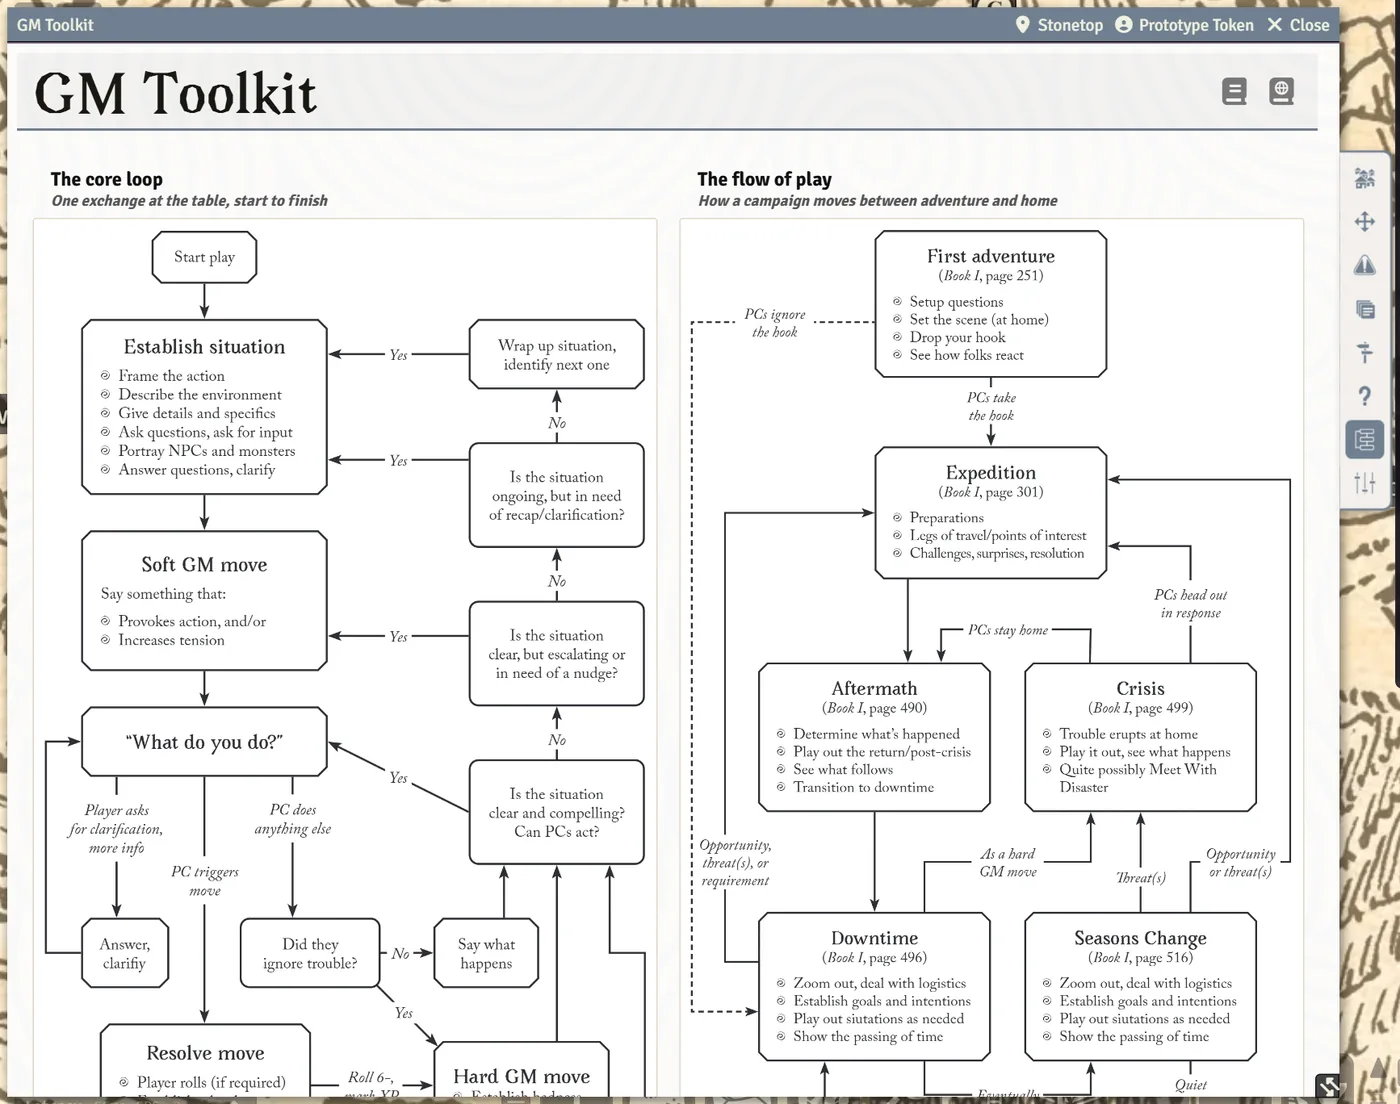
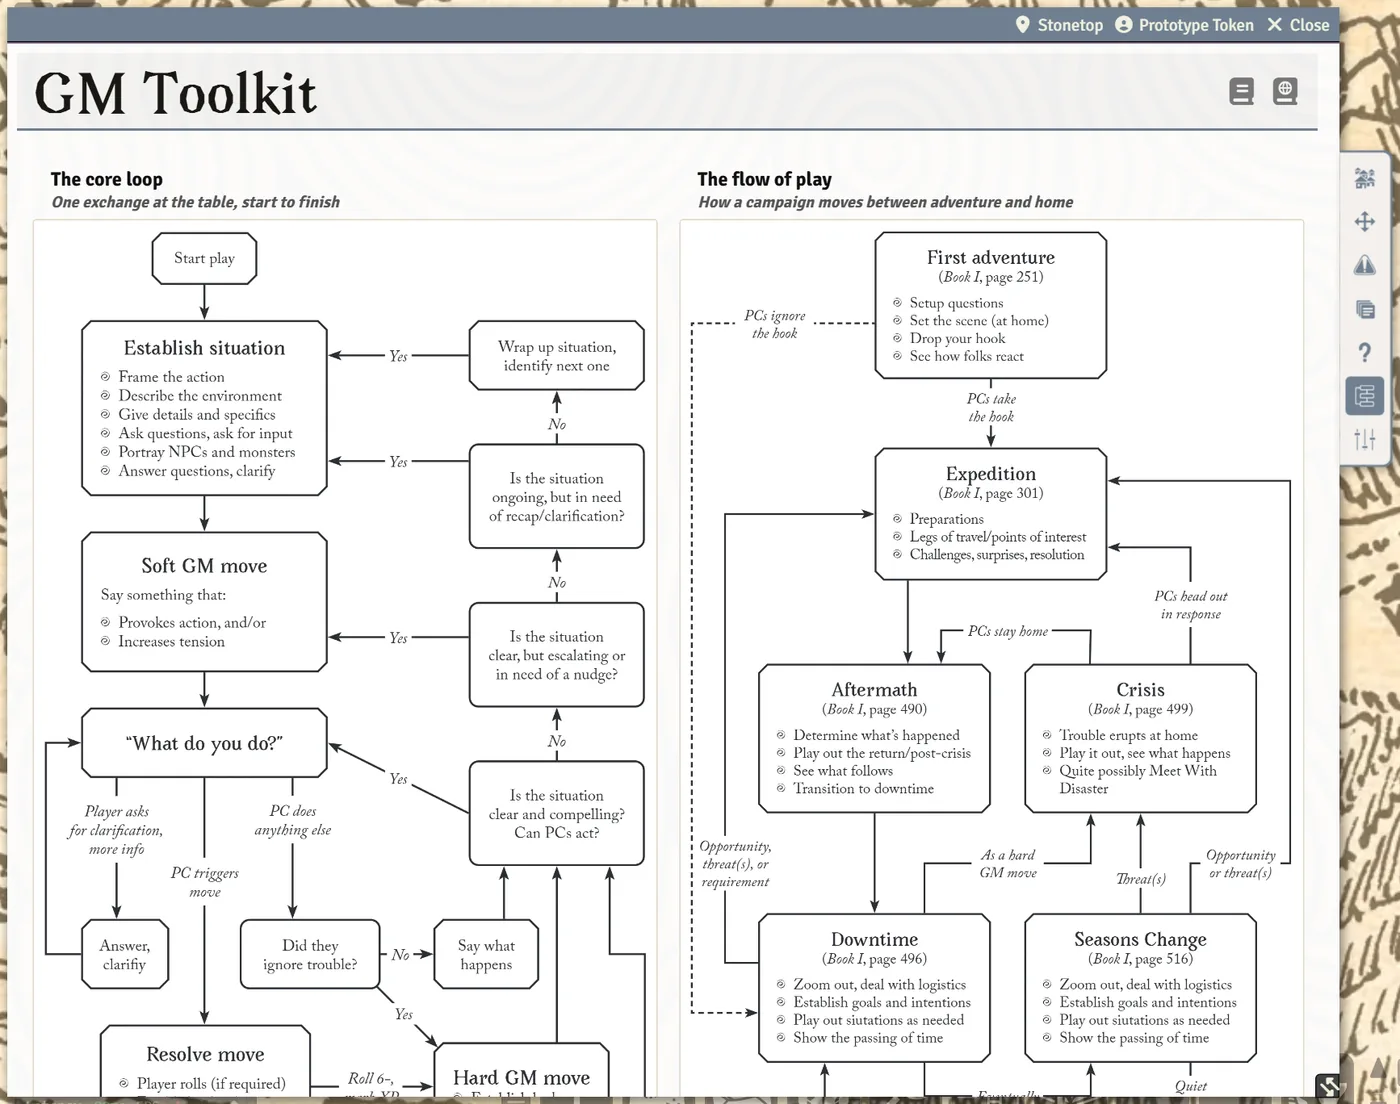
Wiki: fresh GM Toolkit and Expeditions screenshots
- Retook the route, sites, core loop, encounters, I wonder, moves and threats screenshots against the current Prep tab, and rewrote the alt text of the route, sites and encounters images to match what they now show.

diff --git a/wiki/Expeditions-and-Sites.md b/wiki/Expeditions-and-Sites.md
@@ -17,7 +17,7 @@ Open it from the **Run an Expedition** macro (hotbar slot 2), or with **Run the 
 | **Player moves on the road** | What the players might do: Have What You Need, Recover, Struggle as One, Keep Company, Make Camp, Forage. |
 | **Going home** | Questions for the homecoming, Return Triumphant, what is still out with the trip, **Reset Inventory** for the party, and **Save to the Chronicle**. |
 
-![The Run an Expedition window on The route step: the Vicinity map with a red dotted route from Stonetop to The Tower on the Heath and the travel time on each leg, and the Put a site on the map, Draw it on the scene and Show players buttons](images/expeditions-and-sites-route.webp)
+![The Run an Expedition window on The route step, its banner marked Planning: the Vicinity map with a red dotted route from Stonetop to The Tower on the Heath and the travel time on each leg, and the Put a site on the map, Draw it on the scene and Show players buttons](images/expeditions-and-sites-route.webp)
 
 > **Did you know?**
 > - The walkthrough reopens where you left it after a reload.
@@ -100,7 +100,7 @@ Sites are the places the party explores: a barrow, a ruined tower, a cave. They 
 - Drag a site card from the toolkit onto a scene to pin it.
 - Click a site pin to run the way through it; `Shift`-click to add it as another stop; right-click to take the pin off the map (the write-up stays). Dragging a pin on the scene moves the site on the map too.
 
-![The GM Toolkit's Expeditions tab: two prepared expeditions, the Call for Struggle as One button, and the Sites section with two site cards, one marked visited](images/expeditions-and-sites-sites.webp)
+![The GM Toolkit's Prep tab with Sites chosen in the switcher: the New site button and two site cards, one marked visited](images/expeditions-and-sites-sites.webp)
 
 ## Preparing expeditions ahead of time
 

diff --git a/wiki/The-GM-Toolkit.md b/wiki/The-GM-Toolkit.md
@@ -79,7 +79,7 @@ Each view starts with a one-line description and its button: **New encounter**, 
 
 An encounter is a named bundle of pointers to things you mean to use in one session or one scene: the monsters, the battle map, the page you will read aloud, the table you will roll on.
 
-![The GM Toolkit's Encounters tab with two prepared encounters, a Completed section, and the Start a new encounter button](images/the-gm-toolkit-encounters.webp)
+![The GM Toolkit's Prep tab on Encounters, with one encounter card open: its notes, what was gathered listed by kind with a note on each, the Deploy and Deploy & fight buttons, and Mark complete](images/the-gm-toolkit-encounters.webp)
 
 Each encounter is a card. Shut, it is one line: the name, the start of its notes, and a small count of what is in it by kind (monsters, arcana, journals, maps, tables, macros). Click anywhere on that line, or the arrow at its end, to open it.
 
